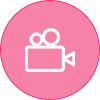
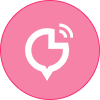
样式修改

Changed region(s): [[0.24, 0.21, 0.75, 0.81]]

diff --git a/pages/home/home.js b/pages/home/home.js
@@ -21,7 +21,7 @@ Page({
     areaText: '',//地址
     dataList:[],//每日一课
     iconNav: [{
-        imgPath: '../../images/10.png',
+        imgPath: '../../images/xueyuan.png',
         title: "儒商学院",
         id: 1
       }, {
@@ -37,7 +37,7 @@ Page({
         title: "企业管理",
         id: 4
       }, {
-        imgPath: '../../images/4.png',
+        imgPath: '../../images/anli.png',
         title: "行业案例",
         id: 5
       },
@@ -215,7 +215,6 @@ Page({
           longitude: longitude,
           areaText: city + area
         })
-        _this.getMaster('1', _this.data.province, _this.data.city, _this.data.area)
       },
       fail: function (res) {},
       complete: function (res) {}

diff --git a/pages/my/my.js b/pages/my/my.js
@@ -51,6 +51,8 @@ Page({
   // 打电话
   getPhone(){
     wx.makePhoneCall({
+      cancelColor:'#EE6A08',//取消文字的颜色
+      confirmColor: '#2DBFB2',//确定文字的颜色
       phoneNumber: '18745042089',
     })
   },
@@ -96,6 +98,8 @@ Page({
     let _this = this
     wx.showModal({
       title: '提示',
+      cancelColor:'#EE6A08',//取消文字的颜色
+      confirmColor: '#2DBFB2',//确定文字的颜色
       content: '确定要退出登录吗？',
       success: function (sm) {
         if (sm.confirm) {

diff --git a/pages/myBusiness/myBusiness.js b/pages/myBusiness/myBusiness.js
@@ -50,6 +50,8 @@ Page({
     wx.showModal({
       title: '删除商机',
       content: '确定要删除该商机？',
+      cancelColor:'#EE6A08',//取消文字的颜色
+      confirmColor: '#2DBFB2',//确定文字的颜色
       success: function (res) {
         if (res.cancel) {
           //点击取消,默认隐藏弹框
